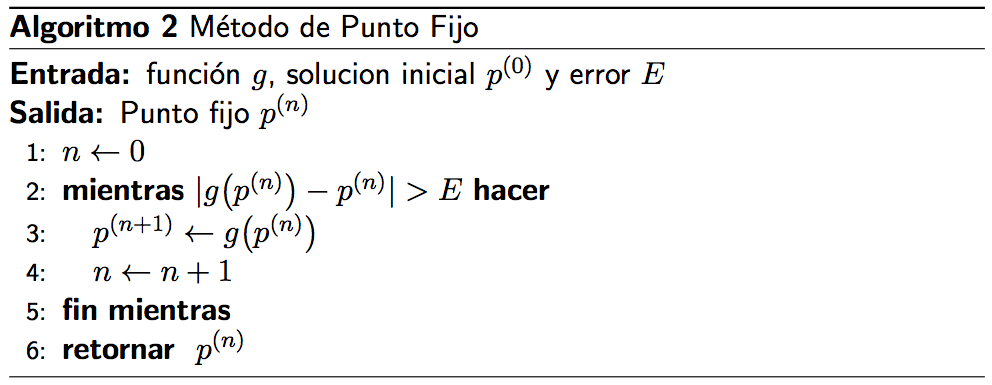
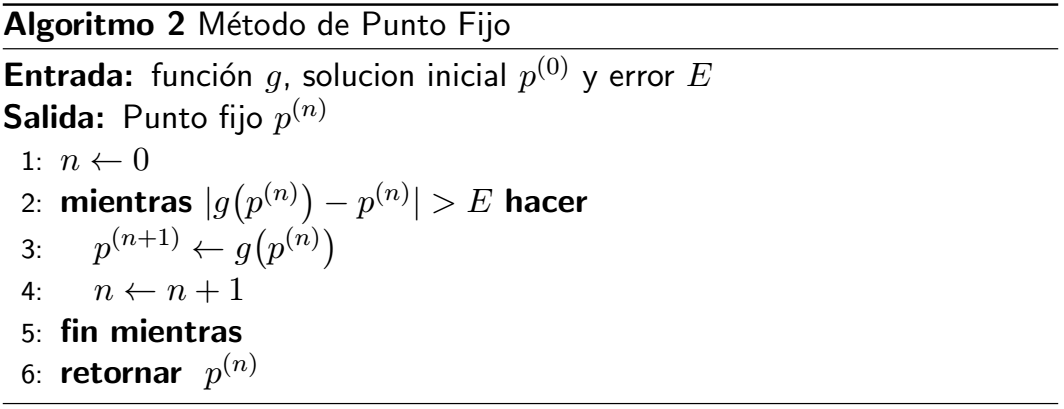
Improved quality of images

diff --git a/3_sist_ec_nolineales.md b/3_sist_ec_nolineales.md
@@ -1,4 +1,4 @@
-# Solución de sistema de ecuaciones
+# Soluciones de Sistema de Ecuaciones
 
 ## Método de descomposición de matrices
 
